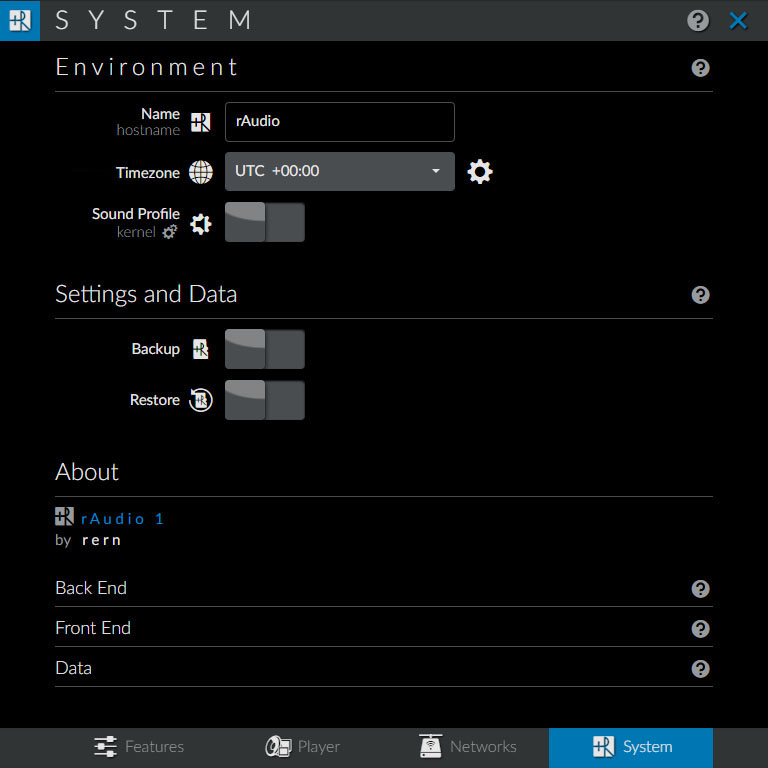
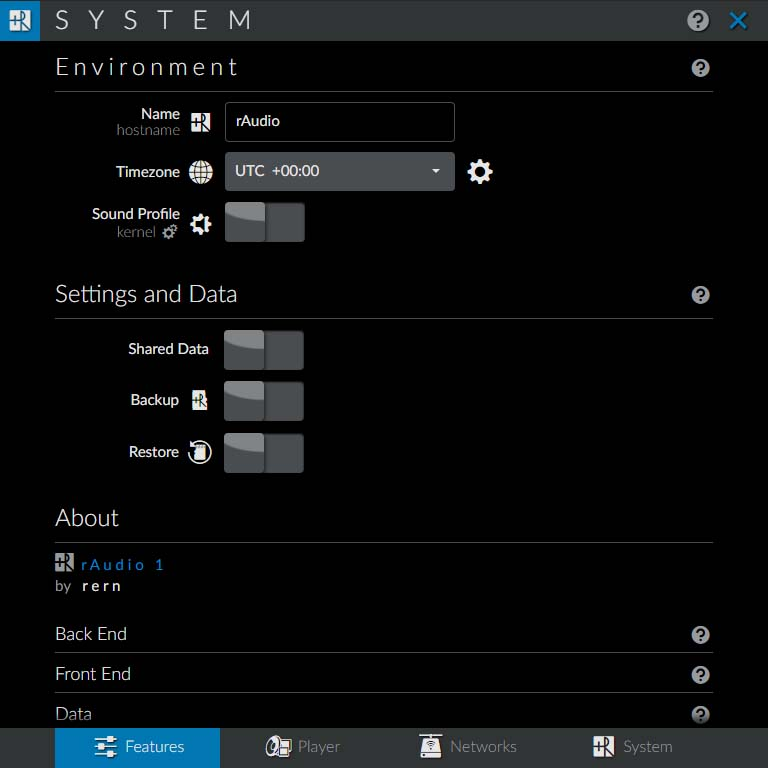
u

diff --git a/srv/http/assets/js/system.js b/srv/http/assets/js/system.js
@@ -837,6 +837,9 @@ $( '.list' ).on( 'click', 'bl', function() {
 		window.open( 'https://archlinuxarm.org/packages/aarch64/'+ pkg );
 	}
 } );
+$( '.sub .help' ).click( function() {
+	$( this ).parent().next().toggleClass( 'hide' );
+} );
 
 } ); // document ready end <<<<<<<<<<<<<<<<<<<<<<<<<<<<<<<<<<<<<<<<<<<<<<<<<<<<<<<<<<
 

diff --git a/srv/http/settings/system.php b/srv/http/settings/system.php
@@ -357,25 +357,29 @@ $hdparmhide = !file_exists( '/usr/bin/hdparm' ) ? ' style="display: none"' : '';
 	<br><gr>by</gr>&emsp;r e r n
 	<br>&nbsp;
 
-	<heading class="sub">Back End</heading>
+	<heading class="sub">Back End<i class="help fa fa-question-circle"></i></heading>
+	<div id="divbackend" class="hide">
 	<a href="https://www.archlinuxarm.org" target="_blank">ArchLinuxArm</a>
 	<br><a class="listtitle">Packages&ensp;<i class="fa fa-chevron-down"></i></a>
 	<div class="list hide"></div><br>&nbsp;
+	</div>
 
-	<heading class="sub">Front End</heading>
-	<br><a href="https://whatwg.org" target="_blank">HTML</a>
+	<heading class="sub">Front End<i class="help fa fa-question-circle"></i></heading>
+	<div id="divfrontend" class="hide">
+		<a href="https://whatwg.org" target="_blank">HTML</a>
 	<br><a href="https://www.w3.org/TR/CSS" target="_blank">CSS</a>
 	<br><a href="https://www.php.net" target="_blank">PHP</a>
 	<br><a href="https://developer.mozilla.org/en-US/docs/Web/JavaScript" target="_blank">JavaScript</a>
 	<br><a class="listtitle">JS libraries and plugins&ensp;<i class="fa fa-chevron-down"></i></a>
 	<div class="list hide"><?=$uihtml?></div><br>&nbsp;
+	</div>
 
-	<heading class="sub">Data</heading>
-	<div class="gr">
-	<a href="https://www.last.fm">last.fm</a> - Coverarts and artist biographies<br>
-	<a href="https://webservice.fanart.tv">fanart.tv</a> - Artist images and fallback coverarts<br>
-	<a href="https://radioparadise.com">Radio Paradise</a>, <a href="https://www.fip.fr/">Fip</a>, <a href="https://www.francemusique.fr/">France Musique</a> - Coverarts for each stations<br>
-	<a href="http://gnudb.gnudb.org">GnuDB</a> - Audio CD data
+	<heading class="sub">Data<i class="help fa fa-question-circle"></i></heading>
+	<div id="divdata" class="gr hide">
+		<a href="https://www.last.fm">last.fm</a> - Coverarts and artist biographies
+	<br><a href="https://webservice.fanart.tv">fanart.tv</a> - Artist images and fallback coverarts
+	<br><a href="https://radioparadise.com">Radio Paradise</a>, <a href="https://www.fip.fr/">Fip</a>, <a href="https://www.francemusique.fr/">France Musique</a> - Coverarts for each stations
+	<br><a href="http://gnudb.gnudb.org">GnuDB</a> - Audio CD data
 	</div>
 </div>
 
